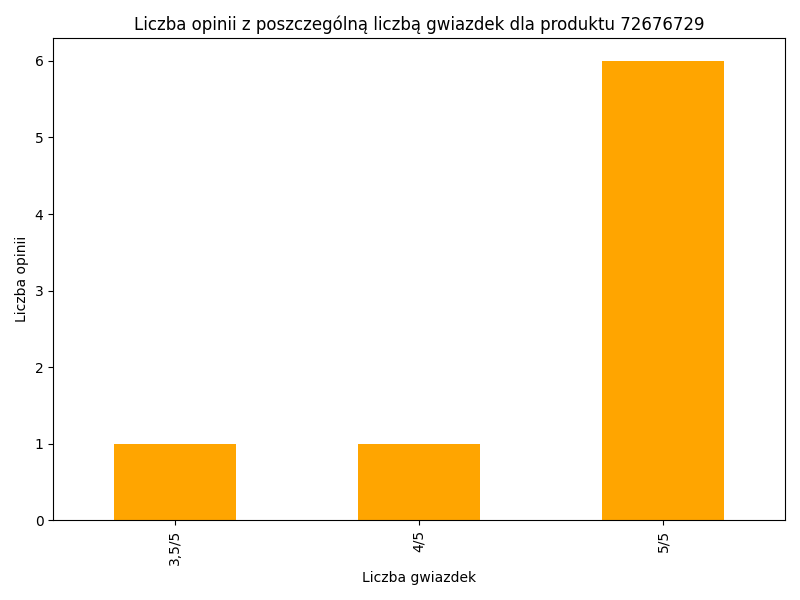
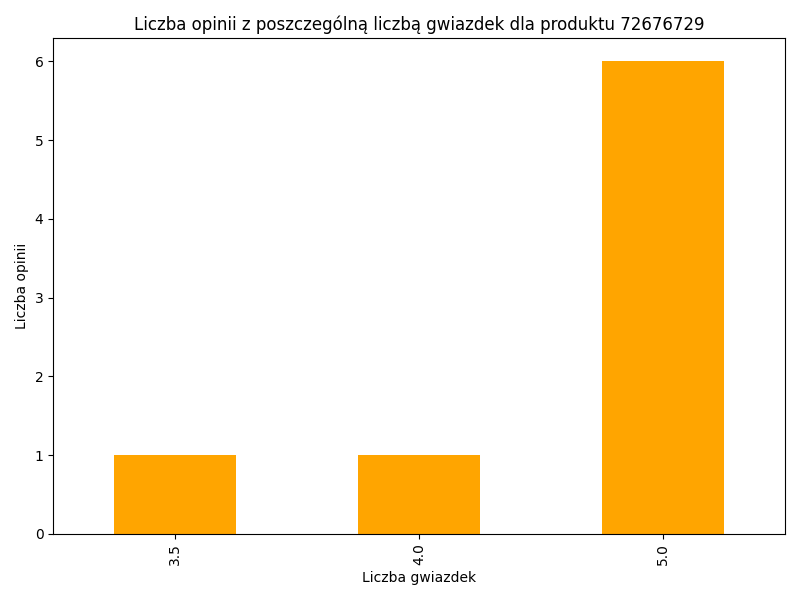
2025-06-17 KK

diff --git a/app/views.py b/app/views.py
@@ -1,17 +1,13 @@
 from flask import render_template, request, redirect, url_for, send_file
 from app import app
-import requests
-from config import headers
-from app import utiles
-from bs4 import BeautifulSoup
-import json
+from app.models import Product
 import os
+import json
 import pandas as pd
-import matplotlib.pyplot as plt
 import io
-
 import matplotlib
-matplotlib.use('Agg')  # Use a non-interactive backend for matplotlib
+
+matplotlib.use('Agg')  
 
 @app.route("/")
 def index():
@@ -21,93 +17,34 @@ def index():
 def display_form():
     return render_template("extract.html")
 
+@app.route("/extract", methods=['POST'])
+def extract():
+    product_id = request.form.get('product_id')
+    product = Product(product_id)
+    
+    status = product.extract_opinions()
+    if status == "PRODUCT_NOT_FOUND":
+        return render_template("extract.html", error="Nie znaleziono produktu o podanym ID.")
+    if status == "NO_OPINIONS":
+        return render_template("extract.html", error="Dla produktu o podanym ID nie ma jeszcze żadnych opinii.")
+
+    product.process_opinions()
+    product.save_files()
+    
+    return redirect(url_for('product', product_id=product.product_id, product_name=product.product_name))
+
+
 @app.route("/products")
 def products():
+    if not os.path.exists("./app/data/products"):
+        return render_template("products.html", products_list=[])
     products_files = os.listdir("./app/data/products")
     products_list = []
     for filename in products_files:
         with open(f"./app/data/products/{filename}", "r", encoding="UTF-8") as jf:
-            product = json.load(jf)
-            products_list.append(product)
+            product_data = json.load(jf)
+            products_list.append(product_data)
     return render_template("products.html", products_list=products_list)
-
-@app.route("/extract",methods=['POST'])
-def extract():
-    product_id = request.form.get('product_id')
-    next_page = (f"https://www.ceneo.pl/{product_id}#tab=reviews")
-    response = requests.get(next_page,headers=headers)
-    if response.status_code == 200:
-        page_dom = BeautifulSoup(response.text, "html.parser")
-        product_name = utiles.extract_feature(page_dom,"h1")
-        opinions_count = utiles.extract_feature(page_dom,"a.product-review__link > span")
-        if not opinions_count:
-            return render_template("extract.html",error="Dla produktu o podanym ID nie ma jeszcze żadnych opinii.")
-    else:
-        return render_template("extract.html",error="Nie znaleziono produktu o podanym ID.")
-    all_opinions = []
-    while next_page:
-        print(next_page)
-        response = requests.get(next_page,headers=headers)
-        if response.status_code == 200:
-            page_dom = BeautifulSoup(response.text, "html.parser")
-            opinions = page_dom.select("div.js_product-review:not(.user-post--highlight)")
-            for opinion in opinions:
-                single_opinion = {
-                    key: utiles.extract_feature(opinion,*value)
-                    for key, value in utiles.selectors.items()
-                }
-                all_opinions.append(single_opinion)
-            try:
-                next_page = "https://www.ceneo.pl" + utiles.extract_feature(page_dom,"a.pagination__next","href")
-            except TypeError:
-                next_page = None
-                print("Brak kolejnej strony.")
-        else:
-            print(f"{response.status_code}")
-    if not os.path.exists("./app/data"):
-        os.mkdir("./app/data")
-    
-    if not os.path.exists("./app/data/opinions"):
-        os.mkdir("./app/data/opinions")
-        
-    with open (f"./app/data/opinions/{product_id}.json","w",encoding="utf-8") as file:
-        json.dump(all_opinions,file,ensure_ascii=False,indent=4)
-    
-    
-    opinions = pd.DataFrame.from_dict(all_opinions)
-    opinions.stars = opinions.stars.apply(lambda s: s.split("/")[0].replace(",",".")).astype(float)
-    opinions.useful = opinions.useful.astype(int)
-    opinions.useless = opinions.useless.astype(int)
-    stats = {
-        "product_id": product_id,
-        "product_name": product_name,
-        "opinions_count": opinions.shape[0],
-        "pros_count": int(opinions.pros.astype(bool).sum()),
-        "cons_count": int(opinions.cons.astype(bool).sum()),
-        "pros_cons_count": int((opinions.pros.astype(bool) & opinions.cons.astype(bool)).sum()),
-        "avg_stars": float(opinions.stars.mean()),
-        "pros": opinions.pros.explode().dropna().value_counts().to_dict(),
-        "cons": opinions.cons.explode().dropna().value_counts().to_dict(),
-        "recommendations": opinions.recommendation.value_counts(dropna=False).reindex(["Nie polecam", "Polecam", None], fill_value=0).to_dict()
-    }
-    # stats = {
-    #     "opinions_count": opinions.shape[0],
-    #     "pros_count": int(opinions.pros.astype(bool).sum()),
-    #     "cons_count": int(opinions.cons.astype(bool).sum()),
-    #     "pros_cons_count"
-    #     "pros": opinions.pros.explode().dropna().value_counts(),
-    #     "cons": opinions.cons.explode().dropna().value_counts(),
-    #     "recommendations": opinions.recommendation.value_counts(dropna=False).reindex(["Nie polecam", "Polecam", None], fill_value=0)
-    # }
-    
-    if not os.path.exists("./app/data"):
-        os.mkdir("./app/data")
-    if not os.path.exists("./app/data/products"):
-        os.mkdir("./app/data/products")
-    with open (f"./app/data/products/{product_id}.json","w",encoding="utf-8") as file:
-        json.dump(stats,file,ensure_ascii=False,indent=4)
-    return redirect(url_for('product', product_id=product_id, product_name=product_name))
-
 
 @app.route("/author")
 def author():
@@ -115,58 +52,29 @@ def author():
 
 @app.route("/product/<product_id>")
 def product(product_id):
-    #product_name = request.args.get("product_name")
-    #opinions = pd.read_json(f"./app/data/opinions/{product_id}.json")
-    product_name=request.args.get('product_name')
-    with open(f"./app/data/opinions/{product_id}.json", "r", encoding="UTF-8") as jf:
+    product_name = request.args.get('product_name')
+    opinions_path = f"./app/data/opinions/{product_id}.json"
+    if not os.path.exists(opinions_path):
+         return redirect(url_for('extract')) 
+    with open(opinions_path, "r", encoding="UTF-8") as jf:
         opinions = json.load(jf)
-    return render_template("product.html", product_id=product_id, product_name=product_name, opinions=opinions) 
-   
-
+    return render_template("product.html", product_id=product_id, product_name=product_name, opinions=opinions)
 
 @app.route('/charts/<product_id>')
 def charts(product_id):
-    if not os.path.exists("./app/static/images"):
-        os.mkdir("./app/static/images")
-    if not os.path.exists("./app/static/images/charts"):
-        os.mkdir("./app/static/images/charts")
-    with open(f"./app/data/products/{product_id}.json", "r", encoding="utf-8") as readfile:
-        stats = json.load(readfile)
-        recommendations = pd.Series(stats["recommendations"])
-        recommendations.plot.pie(
-            label = "",
-            autopct="%.1f%%",
-            title= f"Rozkład rekomendacji o produkcie {product_id}",
-            labels = ["Nie polecam", "Polecam", "Nie mam zdania"],
-            colors = ["Red", "Green", "LightGray"],
-        )
-    plt.savefig(f"./app/static/images/{stats['product_id']}_pie.png")
-    plt.close()
-
-    with open(f"./app/data/opinions/{product_id}.json", "r", encoding="utf-8") as jf:
-        opinions = pd.read_json(jf)
-        stars_count = opinions["stars"].value_counts().sort_index()
-        stars_count.plot.bar(
-            color="orange",
-            figsize=(8, 6),
-            title=f"Liczba opinii z poszczególną liczbą gwiazdek dla produktu {product_id}"
-        )
-        plt.xlabel("Liczba gwiazdek")
-        plt.ylabel("Liczba opinii")
-        plt.tight_layout()
-        plt.savefig(f"./app/static/images/{product_id}_stars_bar.png")
-        plt.close()
-
-    return render_template("charts.html",product_id=product_id, product_name=stats['product_name'])
+    product = Product(product_id)
+    product.load_from_files()
+    product.generate_charts()
+    return render_template("charts.html", product_id=product_id, product_name=product.product_name)
 
 @app.route('/download/<product_id>/<filetype>')
 def download(product_id, filetype):
-    path = f"./data/opinions/{product_id}.json"
+    opinions_path = f"./app/data/opinions/{product_id}.json"
+    df = pd.read_json(opinions_path)
+
     if filetype == "json":
-        return send_file(path, as_attachment=True)
+        return send_file(f"data/opinions/{product_id}.json", as_attachment=True)
     elif filetype == "csv":
-        path = f"./app/data/opinions/{product_id}.json"
-        df = pd.read_json(path)
         buffer = io.StringIO()
         df.to_csv(buffer, index=False)
         buffer.seek(0)
@@ -177,8 +85,6 @@ def download(product_id, filetype):
             download_name=f"{product_id}.csv"
         )
     elif filetype == "xlsx":
-        path = f"./app/data/opinions/{product_id}.json"
-        df = pd.read_json(path)
         buffer = io.BytesIO()
         with pd.ExcelWriter(buffer, engine='xlsxwriter') as writer:
             df.to_excel(writer, index=False)
@@ -189,5 +95,3 @@ def download(product_id, filetype):
             as_attachment=True,
             download_name=f"{product_id}.xlsx"
         )
-
-

diff --git a/app/models.py b/app/models.py
@@ -1,6 +1,144 @@
-class product:
-    def __init__(self):
-        pass
-class opinion:
-    def __init__(self):
-        pass
+import os
+import json
+import requests
+import pandas as pd
+import matplotlib.pyplot as plt
+from bs4 import BeautifulSoup
+
+from app.utiles import extract_feature, selectors
+from config import headers
+
+class Opinion:
+    def __init__(self, opinion_id, author, recommendation, stars, content, pros, cons, useful, useless, post_date, purchase_date):
+        self.opinion_id = opinion_id
+        self.author = author
+        self.recommendation = recommendation
+        self.content = content
+        self.pros = pros
+        self.cons = cons
+        self.useful = int(useful)
+        self.useless = int(useless)
+        self.post_date = post_date
+        self.purchase_date = purchase_date
+        try:
+            self.stars = float(stars.split("/")[0].replace(",", "."))
+        except (AttributeError, TypeError):
+            self.stars = float(stars)
+
+    def to_dict(self):
+        return {key: value for key, value in self.__dict__.items()}
+
+class Product:
+    def __init__(self, product_id, product_name=None):
+        self.product_id = product_id
+        self.product_name = product_name
+        self.opinions = []
+        self.stats = {}
+
+    def extract_opinions(self):
+        next_page = f"https://www.ceneo.pl/{self.product_id}#tab=reviews"
+        all_opinions_data = []
+        
+        response = requests.get(next_page, headers=headers)
+        if response.status_code != 200:
+            return "PRODUCT_NOT_FOUND"
+        
+        page_dom = BeautifulSoup(response.text, "html.parser")
+        self.product_name = extract_feature(page_dom, "h1")
+        opinions_count = extract_feature(page_dom, "a.product-review__link > span")
+
+        if not opinions_count:
+            return "NO_OPINIONS"
+
+        while next_page:
+            print(f"Scraping page: {next_page}")
+            response = requests.get(next_page, headers=headers)
+            if response.status_code == 200:
+                page_dom = BeautifulSoup(response.text, "html.parser")
+                opinions = page_dom.select("div.js_product-review:not(.user-post--highlight)")
+                
+                for opinion_html in opinions:
+                    single_opinion = {
+                        key: extract_feature(opinion_html, *value)
+                        for key, value in selectors.items()
+                    }
+                    all_opinions_data.append(single_opinion)
+                
+                try:
+                    next_page = "https://www.ceneo.pl" + extract_feature(page_dom, "a.pagination__next", "href")
+                except TypeError:
+                    next_page = None
+            else:
+                break
+        
+        for opinion_data in all_opinions_data:
+            self.opinions.append(Opinion(**opinion_data))
+        
+        return "SUCCESS"
+
+    def process_opinions(self):
+        opinions_df = pd.DataFrame([opinion.to_dict() for opinion in self.opinions])
+        
+        self.stats = {
+            "product_id": self.product_id,
+            "product_name": self.product_name,
+            "opinions_count": opinions_df.shape[0],
+            "pros_count": int(opinions_df.pros.astype(bool).sum()),
+            "cons_count": int(opinions_df.cons.astype(bool).sum()),
+            "pros_cons_count": int((opinions_df.pros.astype(bool) & opinions_df.cons.astype(bool)).sum()),
+            "avg_stars": float(opinions_df.stars.mean()),
+            "pros": opinions_df.pros.explode().dropna().value_counts().to_dict(),
+            "cons": opinions_df.cons.explode().dropna().value_counts().to_dict(),
+            "recommendations": opinions_df.recommendation.value_counts(dropna=False).reindex(["Nie polecam", "Polecam", None], fill_value=0).to_dict()
+        }
+
+    def save_files(self):
+        if not os.path.exists("./app/data"):
+            os.mkdir("./app/data")
+        if not os.path.exists("./app/data/opinions"):
+            os.mkdir("./app/data/opinions")
+        if not os.path.exists("./app/data/products"):
+            os.mkdir("./app/data/products")
+            
+        opinions_dict = [opinion.to_dict() for opinion in self.opinions]
+        with open(f"./app/data/opinions/{self.product_id}.json", "w", encoding="utf-8") as f:
+            json.dump(opinions_dict, f, ensure_ascii=False, indent=4)
+            
+        with open(f"./app/data/products/{self.product_id}.json", "w", encoding="utf-8") as f:
+            json.dump(self.stats, f, ensure_ascii=False, indent=4)
+
+    def load_from_files(self):
+         with open(f"./app/data/products/{self.product_id}.json", "r", encoding="utf-8") as f:
+            self.stats = json.load(f)
+            self.product_name = self.stats.get("product_name")
+         with open(f"./app/data/opinions/{self.product_id}.json", "r", encoding="utf-8") as f:
+            opinions_data = json.load(f)
+            self.opinions = [Opinion(**data) for data in opinions_data]
+
+    def generate_charts(self):
+        if not os.path.exists("./app/static/images"):
+            os.makedirs("./app/static/images", exist_ok=True)
+        
+        recommendations = pd.Series(self.stats["recommendations"])
+        recommendations.plot.pie(
+            label="",
+            autopct="%.1f%%",
+            title=f"Rozkład rekomendacji o produkcie {self.product_id}",
+            labels=["Nie polecam", "Polecam", "Nie mam zdania"],
+            colors=["Red", "Green", "LightGray"],
+        )
+        plt.savefig(f"./app/static/images/{self.product_id}_pie.png")
+        plt.close()
+
+        opinions_df = pd.DataFrame([o.to_dict() for o in self.opinions])
+        stars_count = opinions_df["stars"].value_counts().sort_index()
+        stars_count.plot.bar(
+            color="orange",
+            figsize=(8, 6),
+            title=f"Liczba opinii z poszczególną liczbą gwiazdek dla produktu {self.product_id}"
+        )
+        plt.xlabel("Liczba gwiazdek")
+        plt.ylabel("Liczba opinii")
+        plt.tight_layout()
+        plt.savefig(f"./app/static/images/{self.product_id}_stars_bar.png")
+        plt.close()
